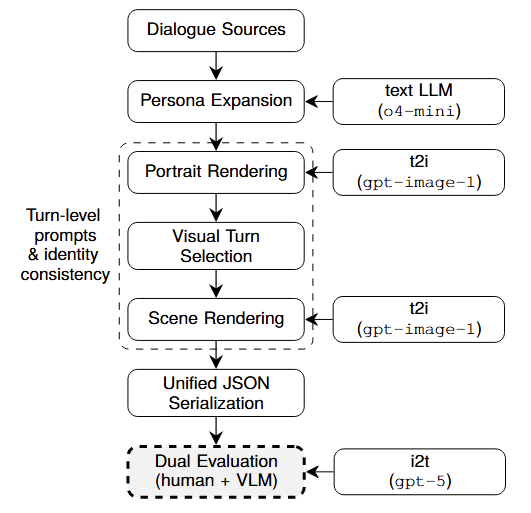
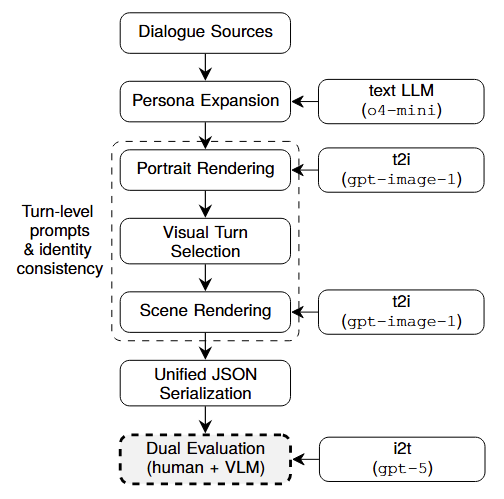
docs: improve README visuals with profile grid and pipeline overview

Changed region(s): [[0.0298, 0.0, 0.9821, 0.992], [0.5655, 0.7214, 0.5952, 0.8116], [0.2381, 0.7214, 0.2679, 0.8116]]

diff --git a/README.md b/README.md
@@ -33,14 +33,17 @@ The dataset is serialized using a **unified JSON schema** that integrates dialog
   <tr>
     <td><img src="docs/persona_chat_760_B.png" width="200"/></td>
     <td><img src="docs/persona_chat_4513_B.png" width="200"/></td>
+    <td><img src="docs/comper_dial_94_B.png" width="200"/></td>	
   </tr>
   <tr>
     <td><img src="docs/persona_chat_5744_B.png" width="200"/></td>
     <td><img src="docs/persona_chat_2917_B.png" width="200"/></td>
+    <td><img src="docs/persona_chat_2359_A.png" width="200"/></td>
   </tr>
 </table>
 
 <p><em>All images are fully synthetic and shown for illustrative purposes only.</em></p>
+
 ---
 
 ## Repository Structure
